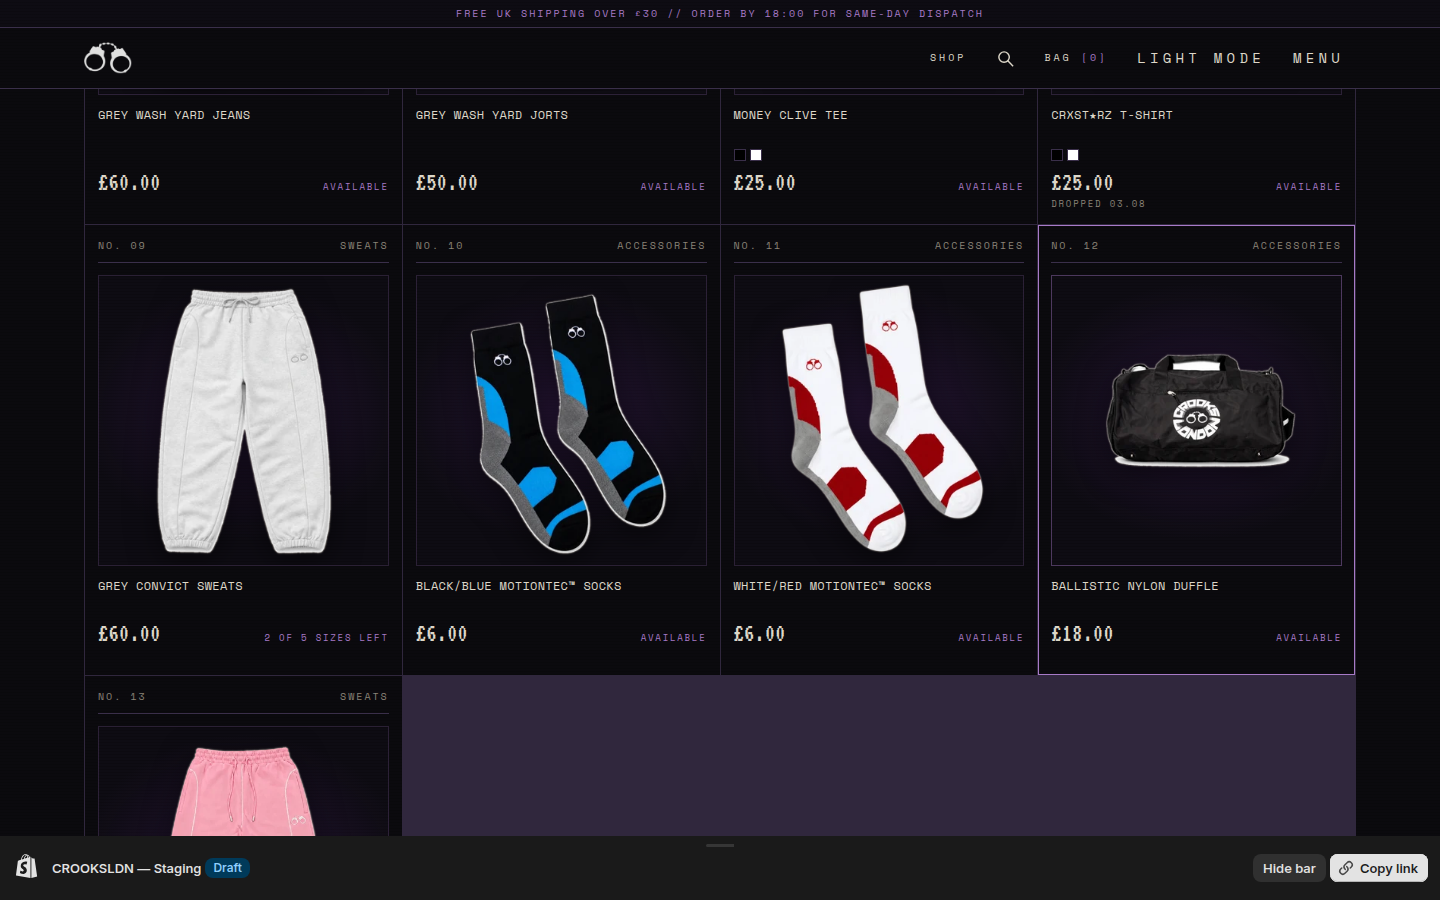
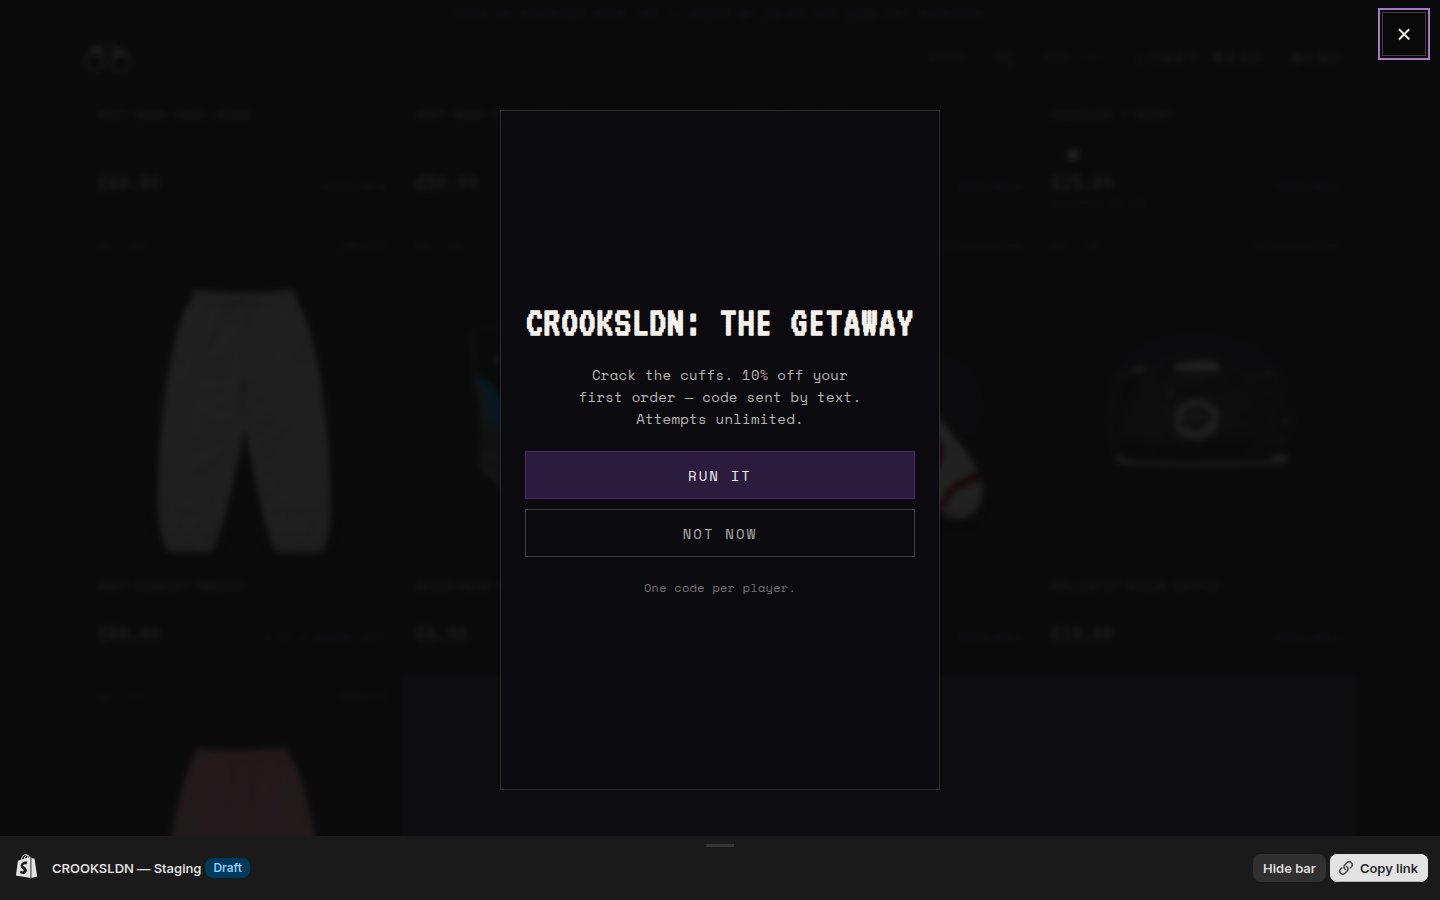
Rerun: persona 19 desktop journey complete - all 20 run-2 journeys in
- 19 bought the Cellblock set (L, £85 -> £76.50, fresh Getaway code stacking)
- Desktop delta: hover states + inline add feedback landed; PDP galleries
  thinner (PHOTO 1 OF 1), no sticky buy bar, ON MODEL still inert,
  REGISTER AS INFORMANT intake still unmounted
- COPY CODE off-site navigation confirmed on desktop with clipboard granted;
  expired code fails silently in cart
- SUMMARY.md and VERSUS.md run-2 section updated to final 15/20 ledger

Claude-Session: https://claude.ai/code/session_01UYa9fwHYTHfAEduSXfu9eY

diff --git a/audit/rerun/journeys/19-desktop-shopper.md b/audit/rerun/journeys/19-desktop-shopper.md
@@ -1,0 +1,101 @@
+# 19 — Marcus, 34, back on his laptop on the sofa, second look at CROOKSLDN
+**Device:** Desktop 1440x900, fast home broadband · **Goal:** No mission — free Wednesday evening, wants a proper look around and maybe a treat · **Mood:** Relaxed, unhurried, mouse in one hand, tea in the other
+
+### Step 1 — Opened the site and actually got a homepage this time
+**Did:** Loaded the homepage and started reading.
+**Got:** A dark terminal-style homepage, straight away — no dimmed screen, no instant ambush. Ticker up top ("FREE UK SHIPPING OVER £30 // ORDER BY 18:00 FOR SAME-DAY DISPATCH"), a status line "> 13 PRODUCTS AVAILABLE TO PURCHASE", the CROOKSLDN title, OWN THE STREETS™, a CATALOGUE button — all parked on the left. A big cookie banner along the bottom, which I declined (r19-02-popup-settled.png, r19-16-hero-staging.png).
+**Expected:** Last impressions of these brand sites are usually a popup before anything else.
+**Felt:** Better welcome than most. Two quibbles: the whole right two-thirds of the hero band is empty black — the title hugs the left like the other half of the design didn't load — and the hero is so short it's more of a letterhead than a hero. Below it, though, a new "WORLD OF CROOKS" photo strip — five numbered "FRAME 01/05" shots of actual people in actual streets. Proper. Frame 05 is chopped off at the screen edge and I had to fiddle-scroll sideways to see it.
+**Next:** continued
+
+### Step 2 — Thirty seconds in, the game took the screen
+**Did:** Was idly scrolling the grid when the whole page dimmed and a centred card appeared: "CROOKSLDN: THE GETAWAY — Crack the cuffs. 10% off your first order — code sent by text. Attempts unlimited." RUN IT / NOT NOW / "One code per player." (r19-03-popup-check.png)
+**Got:** A popup that — credit where due — tells you the prize BEFORE you play: 10%, unlimited attempts. But "code sent by text" made me groan: here comes the phone-number harvest. The card itself is a tall dark rectangle with the content floating in the middle and acres of empty space above and below, and there's a lone × way up in the top-right of the SCREEN, nowhere near the card. There's a second, smaller × on the card itself later. Pick one.
+**Expected:** Either a discount or a data grab; the copy at least was upfront.
+**Felt:** Interrupted — I was reading the grid — but 10% is 10%, and "attempts unlimited" is charming. "Code sent by text" nearly made me close it on principle. Curiosity won.
+**Next:** clicked RUN IT
+
+### Step 3 — Pressed RUN IT and was asked… to press RUN IT again
+**Did:** Clicked RUN IT. Got a SECOND intro screen: "CRACK THE CUFFS. 10% off your first order if you do. Three tumblers. Click each one at the right moment." with another RUN IT, another NOT NOW, "Code expires in 20 minutes" and "(this drop closes 15.09)" (r19-07-game-2.png). Clicked RUN IT again.
+**Got:** The actual game: three digit tumblers spinning, "CLICK TO STOP", a draining bar, "0/3 LOCKED — Click each tumbler before the bar drains" (r19-11-tumblers.png). I clicked all three in time — first go — then "CUTTING THE CODE…".
+**Expected:** One RUN IT, then the game.
+**Felt:** Why am I consenting twice? Small thing, but it's a double door. The wording finally says "Click" for us mouse people — except the tumbler buttons themselves are each labelled "TAP", so the game can't quite decide what I'm holding. "(this drop closes 15.09)" — is that a date? A time? For one blink after the cut, the screen flashed "CODE EXPIRED" before the countdown appeared, and my heart skipped — cheers for that.
+**Next:** continued
+
+### Step 4 — Won a code, on my screen, no phone number needed — then COPY CODE teleported me off the site
+**Did:** The win screen: "EVIDENCE Nº GTWY-VPZK — 10% off. One use. Expires in 19:57", a big COPY CODE button, and below it — optional — "Want it kept on file? Phone number goes in the evidence log — one message per drop, nothing else. Same promise as the register." with FILE IT and a clear "No need — I've got it" (r19-12-win-or-state.png). I clicked COPY CODE.
+**Got:** The entire website vanished. One second I'm on the dark CROOKSLDN terminal, the next I'm on a WHITE site — same handcuffs logo, different everything: plain fonts, "13 items", prices in DOLLARS — $70 crewnecks (r19-16-hero-clean.png shows where I landed: crooksldn.com/collections/all). No warning, same tab. I sat there for a solid few seconds wondering if I'd been hijacked, then hit Back and the dark site returned. My code survived in my head because I'd read it off the evidence tag, not because the button helped me.
+**Expected:** COPY CODE copies the code. That's the entire job description.
+**Felt:** Genuinely rattled, then annoyed. The win screen is the best thing they've built — prize on screen, phone number OPTIONAL, honest copy about what the number's for, a polite no-thanks link — and then the main button on it launches you off the site to some other version of the shop with American prices. If I hadn't memorised the code I'd have lost it and my 20 minutes would already be ticking.
+**Next:** went back (browser Back), carried on — warily
+
+### Step 5 — Proper homepage wander: the grid has come alive, mostly
+**Did:** Scrolled the homepage end to end. Hovered everything, the way you do on a laptop.
+**Got:** The header responds now — SHOP, BAG, LIGHT MODE, MENU all get a purple outline under the mouse. About half the product cards swap to a second photo on hover (the shorts flip from front to back view with a purple border — r19-45-swap-before.png / r19-46-swap-hover.png); the other half sit there doing nothing. Cards carry real evidence-log detail: "NO. 07", "DROPPED 03.08", "2 OF 5 SIZES LEFT", little colour swatches on the tees. All 13 cells have product in them — no missing-shelf gaps like last time — BUT the last row is one lone pink card and then a wide flat purple slab of nothing stretching across three columns (r19-19e-grid-tail.png). The "EVERY ORDER SHIPS LIKE THIS" packaging section is still lovely. Then "REGISTER AS INFORMANT — New drops go live to the list first. Get on it." — and once again NO field, NO button, nothing to click (r19-20-register.png). I moved my mouse over the whole box hunting for a hidden input. Again. Nothing. Again.
+**Expected:** Hover life (finally got some), a signup box you can sign up to (still can't).
+**Felt:** The hover work makes it feel like a real desktop site at last — the half of the cards that flip are a proper little delight. Which makes the dead half feel broken rather than minimal. And "Get on it." with no way to get on it is now beyond parody — that's two audits running I've been ordered to join a list that has no door.
+**Next:** continued
+
+### Step 6 — Catalogue: filters grown up, ON MODEL still a placebo
+**Did:** Clicked SHOP. Played with the toggles: FLAT / ON MODEL, then the DENIM chip (r19-22-catalogue.png).
+**Got:** "ALL — 13 ITEMS", four columns. ON MODEL: the button goes active, and not one of the 19 images on the page changes — I clicked it twice, stared, clicked FLAT, stared. Identical (r19-23b-onmodel.png). DENIM though: instant cut to 4 items, the count updates to "4 ITEMS", and — new — the address bar now says ?cat=DENIM, so I could actually send this view to someone (r19-24-denim.png). The page title stays "ALL" while showing only denim, which is a bit gaslighty, but the count is honest now.
+**Expected:** ON MODEL to show me humans wearing clothes; filters to filter — which they do, properly now.
+**Felt:** Filtering is snappy and shareable — real improvement. ON MODEL remains a button whose only function is turning purple. Either wire it up or take it out; a control that does nothing teaches me not to trust the others.
+**Next:** continued
+
+### Step 7 — Tried the search — quietly excellent
+**Did:** Clicked the magnifier, landed on a search page, typed "jeans".
+**Got:** "SEARCH: JEANS — 4 RESULTS", instantly, laid out like the catalogue with evidence numbering (r19-36-search-jeans.png).
+**Expected:** A clunky results page.
+**Felt:** No notes. Fast, on-brand, correct.
+**Next:** continued
+
+### Step 8 — Grey jeans: £60 and ONE photograph
+**Did:** Opened the Grey Wash Yard Jeans. Looked for more photos, clicked the big image, hovered the sizes, scrolled down the accordions (r19-37-jeans-pdp.png).
+**Got:** A proper two-column desktop layout — big photo left, buy panel right, "PRODUCT 05 / 13" breadcrumb. But the gallery literally prints "PHOTO 1 OF 1" on the page. One picture. Of jeans. For £60. Clicking the image does nothing — cursor doesn't even change. Size buttons don't react to hover. And when I scrolled down to the MEASUREMENTS table, the buy panel scrolled away and nothing followed me — no bar, no floating button; back up I went (r19-28d-panel-scroll.png).
+**Expected:** Three or four shots, a zoom, and something keeping the buy button reachable.
+**Felt:** "PHOTO 1 OF 1" reads like a confession. Last time round there were at least two photos and I moaned about that. I want to see the fabric, the front AND the back, someone wearing them. The layout respects my screen; the content doesn't.
+**Next:** went back — jeans staying on the shelf, and this time it's the photography's fault as much as payday's
+
+### Step 9 — The crewneck and the set offer — still the best salesman here
+**Did:** Opened the Charcoal Cellblock Crewneck (also "PHOTO 1 OF 1", noted). Picked size L. Ticked "Cop the full fit — add the matching Cellblock Shorts. Save £10."
+**Got:** The box unfolded with a shorts size row and a firm instruction — the big button turned into "PICK A CELLBLOCK SHORTS SIZE" until I chose. Picked L. Then: "£95 £85 for the set — FREE UK TRACKED 24 INCLUDED", button now "ADD THE FULL FIT — £85" (r19-27b-set-sized.png, r19-29-after-add.png).
+**Expected:** The bundle mechanics to be fiddly. They weren't.
+**Felt:** This is still how you sell me two things — price before and after, shipping thrown in, button says exactly what it'll do. It didn't guess my shorts size this time, just refused to move until I picked one, which is fair — shorts and jumper sizes aren't always the same. Ticked, sized, sold.
+**Next:** clicked ADD THE FULL FIT — £85
+
+### Step 10 — Pressed the £85 button — and the site answered this time
+**Did:** Clicked ADD THE FULL FIT — £85 and watched.
+**Got:** The button flipped to "ADDING…", held it about two seconds, then a small line appeared right under it — "Added — 2 in bag · View bag" — and the header ticked BAG [0] → BAG [2] (r19-29-after-add.png). No drawer sliding in, but a response, next to my cursor, in words.
+**Expected:** Last time: silence and a squint at the corner of the screen. This time I braced for the same.
+**Felt:** Relief — it talks now. "ADDING…" alone kills the did-it-work panic. [2] for two garments also makes more sense than the [1] I remember. A drawer would still be nicer than a whisper, but the whisper is where my eyes already were.
+**Next:** clicked View bag
+
+### Step 11 — The cart, a dead code, and a second heist
+**Did:** Cart page: "CELLBLOCK SET" as one line holding both pieces at L, £85, free-shipping meter fully unlocked, quantity stepper, a little "Discount" reveal (r19-30-bag.png). Opened it and typed my hard-won game code. Apply.
+**Got:** Nothing. No error, no red text — the field just emptied itself and the total sat at £85 (r19-32-code-applied.png). By now my browsing had run well past the code's 20 minutes, so fair enough that it died — but the cart didn't even have the decency to say "expired". I doubted my own typing. So: back to the homepage, let the game find me again, cracked the cuffs a second time (attempts unlimited — they meant it), got a fresh code, and this time closed the popup with the card's own little × — no teleport, lesson learned — and marched straight to the cart with it. "GTWY-QCMR −£8.50. Estimated total £76.50" (r19-32b-set-code.png).
+**Expected:** A code that says "expired" when it's expired; a discount when it isn't.
+**Felt:** The silent failure is the sort of thing that makes normal people give up — I only pushed on because I'm stubborn and it was raining. But when the fresh code landed, £8.50 came straight off the set price, stacking on the £10 the bundle already saved me. £95 of clothes for £76.50. Also spotted the footer has a "Play CROOKSLDN: The Getaway" link — though it's an external link off to the game's own website, because apparently every road here eventually leads off the site. And the "You may also like" under my cart recommended me… the crewneck and shorts already in my bag. Still. Try harder.
+**Next:** clicked Check out
+
+### Step 12 — Checkout: no drama
+**Did:** Clicked Check out with the set and the discount in the bag.
+**Got:** Clean Shopify checkout — CELLBLOCK SET, expandable to show both pieces in L, express pay (Shop Pay / PayPal / G Pay), UK delivery form (r19-33-checkout.png).
+**Expected:** This.
+**Felt:** Everything I chose is here. This is where I'd pay.
+**Next:** stopped at the payment step — treat secured
+
+### Step 13 — Nightcap wander: menu, light mode, FAQ
+**Did:** Opened MENU, flipped LIGHT MODE, read the FAQ (r19-39-menu.png, r19-40-light-mode.png, r19-41-faq.png).
+**Got:** MENU is still the classiest thing here — a right-hand panel with SHOP / TRACKING / QUESTIONS / TERMS / CONTACT, links that light up under the mouse, and that animated pixel heist map advertising the game. LIGHT MODE flips the whole site to a finished-looking paper terminal. The FAQ is a real page — DELIVERY / SIZING / RETURNS grouped, honest answers, "message us and it will probably end up on this page".
+**Expected:** Good, from last time — and it held.
+**Felt:** Someone cares about these corners. I'd just like the same person to go count the product photos.
+**Next:** closed the laptop
+
+## Outcome
+**Bought / didn't:** Bought (checkout intent) — the Cellblock set in L, £85 down to £76.50 with the game code. The set checkbox sold it; the working discount sealed it.
+**Total time:** ~35 minutes, most of them enjoyable, two of them thinking I'd been hijacked.
+**Worst moment:** Clicking COPY CODE on the game's win screen and being thrown off the site entirely — same tab, no warning — onto a white, dollar-priced version of the shop (crooksldn.com/collections/all). The best screen in the whole experience has a self-destruct button where "copy" should be. Runner-up: my code expiring and the cart rejecting it in total silence.
+**Best moment:** The win screen itself — the code ON MY SCREEN, phone number strictly optional with honest copy about what it's for, and a fresh code knocking £8.50 off an already-discounted set. Last time I refused to hand over my number and left the game empty-handed; this time desktop players are first-class citizens of the heist.
+**Would they come back?** Yes — the brand is fun, the set is good value, the site finally answers the mouse and answers the add-to-bag click. But it still treats bits of desktop as an afterthought: one-photo product pages with no zoom and no sticky buy bar, a placebo ON MODEL toggle, a signup box with no input, and a copy button that deports you.
+**One thing that would have changed the outcome:** Nothing stopped the purchase — but make COPY CODE just copy (and make an expired code SAY it's expired) and you remove both moments where I nearly walked. And for the love of denim: more than one photograph of £60 jeans.

diff --git a/audit/rerun/SUMMARY.md b/audit/rerun/SUMMARY.md
@@ -2,18 +2,19 @@
 
 2026-08-27, fresh preview of staging theme `202053779799`, GB market,
 staging verified per session. Compares against run 1 (2026-08-18/19) and the
-Unfounded baseline. Persona 19 (desktop) results pending at time of writing;
-19 journeys + a delta-check agent complete.
+Unfounded baseline. All 20 journeys + a delta-check agent complete.
 
 ## Outcomes vs run 1
 
 Committed to buy (built a basket with clear intent, stopped at the audit
-line): 02, 03, 04, 05, 07, 08, 09, 10*, 11, 13, 14, 15, 16, 18 — with 09 now
-buying the £50 crewneck she abandoned in run 1 (the size guide flipped her),
-and 14 explicitly reversing his run-1 walkout ("would finish the order this
-time"). Didn't: 01 and 06 (stock + the captcha, unchanged), and a NEW loss —
-**17 walked on principle when her freshly-won Getaway code was rejected at
-checkout.** 12 and 20 were service visits (both satisfied this run).
+line): 02, 03, 04, 05, 07, 08, 09, 10*, 11, 13, 14, 15, 16, 18, 19 — with 09
+now buying the £50 crewneck she abandoned in run 1 (the size guide flipped
+her), 14 explicitly reversing his run-1 walkout ("would finish the order this
+time"), and 19 (desktop) taking the Cellblock set in L at £76.50 — a fresh
+Getaway code's £8.50 stacking on the £10 bundle saving. Didn't: 01 and 06
+(stock + the captcha, unchanged), and a NEW loss — **17 walked on principle
+when her freshly-won Getaway code was rejected at checkout.** 12 and 20 were
+service visits (both satisfied this run).
 *10 decided (blue) without checking out.
 
 **The loss profile changed shape: run 1's theme bugs (double-add, silent
@@ -54,18 +55,39 @@ unreliable code backing and inventory.**
    EXPIRED before the countdown) reproduced by delta, 13, 16.
 3. **Tumblers unresponsive on a throttled phone** — 10 taps, nothing locked
    (14): "the only part of the site still hostile to an old Android."
-4. **COPY CODE hard-navigates to live crooksldn.com/collections/all** (15) —
-   hardcoded production URL; ejects the shopper mid-session.
+4. **COPY CODE hard-navigates to live crooksldn.com/collections/all** (15;
+   19 reproduced it twice on desktop WITH clipboard permission granted) —
+   hardcoded production URL; ejects the shopper mid-session onto the live
+   Dawn-theme site in USD. Related: the footer's "Play CROOKSLDN: The
+   Getaway" is an external same-tab link to crackthecuffs.base44.app —
+   another route off the store (19).
 5. **Winners get re-pitched** — a win sets no flag (11, 15, 17); only NOT
    NOW sets the snooze (20 confirmed the snooze holds).
 6. **"Code sent by text" is now false** and scares privacy-wary players (6
-   journeys); "expires in 20 minutes" is a bluff — code worked past 20 (9):
-   fake urgency AND factually wrong. Name exists in three variants
-   (GETAWAY / CRACK THE CUFFS / PLAY CROOKS: THE GETAWAY) + "(Copy)" dev
-   artifact in the DOM.
+   journeys; it nearly made 19 decline); "expires in 20 minutes" is
+   inconsistent — 9's code worked past 20, while 19's genuinely-expired code
+   failed SILENTLY in the cart (field clears, no message, total unchanged).
+   Name exists in three variants (GETAWAY / CRACK THE CUFFS / PLAY CROOKS:
+   THE GETAWAY) + "(Copy)" dev artifact in the DOM.
 7. Double intro, dead black void, detached close-X (fat-finger kills the
    game, 9), win screen overflows a 450px viewport hiding FILE IT (17),
    perpetual tumbler tick with no pause under reduced motion (18).
+
+## Desktop, run 2 (persona 19 — the run-1 "second-class surface" retested)
+
+Better: header hover states everywhere; 6 of 13 cards photo-swap on hover;
+add-to-bag now answers on desktop ("ADDING…" → inline "Added — 2 in bag");
+instant search results; complete light mode; category chips filter properly
+with shareable ?cat= URLs; set offer now asks for the shorts size explicitly
+instead of silently matching it. Still second fiddle: PDP galleries got
+THINNER since run 1 (crewneck and jeans literally print "PHOTO 1 OF 1"), no
+zoom anywhere, 7 of 13 cards don't react to hover, ON MODEL flips
+aria-pressed but changes zero images, no desktop sticky buy bar (the sticky
+buy panel scrolls off by ~900px on accordion-heavy PDPs), the homepage's
+last grid row is one card + a 3-column empty purple slab, WORLD OF CROOKS
+clips its 5th frame with no scroll affordance — and **REGISTER AS INFORMANT
+still has no input, button or link**: run 1's unmounted intake, still
+unmounted, now with copy ("Get on it.") pointing at nothing.
 
 ## New store-side items
 

diff --git a/audit/VERSUS.md b/audit/VERSUS.md
@@ -90,8 +90,6 @@ The same twenty personas re-ran against the NEW CROOKSLDN build (fresh
 preview of staging `202053779799`; Getaway popup observed, never fed a phone
 number). Unfounded was NOT re-audited — the baseline stands. Full run-2
 evidence: `rerun/journeys/`, `rerun/SUMMARY.md`, `rerun/features/raw-delta.md`.
-Persona 19 (desktop) was still in flight at write-up; the desktop dimension
-below keeps its run-1 verdict pending that log.
 
 ## Chips that moved
 
@@ -107,7 +105,12 @@ every garment checked), set machinery, shipping transparency, promise
 consistency, accessibility (now stronger — the popup is keyboard/SR/PRM
 playable) and post-purchase (now stronger — signed-out tracking lookup,
 1-tap RETURNS). Unfounded keeps photography & zoom, checkout branding, and
-(pending 19) desktop.
+desktop — though the desktop gap NARROWED (19): CROOKSLDN's desktop now has
+hover states on the header and 6 of 13 cards, inline add-to-bag feedback,
+instant search and a complete light mode. Unfounded still wins the dimension
+on card photo-swaps everywhere, quick-add, a sticky buy bar and real
+galleries — CROOKSLDN's crewneck and jeans PDPs literally print
+"PHOTO 1 OF 1", have no zoom, and the buy panel scrolls off-screen.
 
 **Run-2 tally by chip: CROOKSLDN 9 · Unfounded 3 · split/tie 3** (run 1 by
 the same per-row count: 8 · 5 · 2).
@@ -115,8 +118,10 @@ the same per-row count: 8 · 5 · 2).
 ## The shopper ledger, run over run
 
 Run 1: 15/20 reached checkout; losses 1, 6, 12, 14; service 20.
-Run 2: 14/19 decided-or-checkout so far (19 pending); losses 1, 6, **17**;
-service 12 and 20, both satisfied.
+Run 2: 15/20 decided-or-checkout; losses 1, 6, **17**; service 12 and 20,
+both satisfied. Same headline rate, better composition: run 1's theme-bug
+losses (12, 14) are recovered; the one new loss is the popup's till, and 19
+(desktop) closed on the £85 set at £76.50 with a working Getaway code.
 
 - **12 flipped loss → satisfied** — every search query landed; the empty
   state now answers in voice.
@@ -144,9 +149,12 @@ service 12 and 20, both satisfied.
 
 ## Run-2 verdict
 
-Run 1's sentence — right machines, several broken — is spent. The theme-side
-machines are repaired and persona-verified; what costs sales now is (a) the
-Getaway's unreliable code backing and its seven-item punch-list
-(`rerun/SUMMARY.md`), (b) stock depth, and (c) the photography gap that
-Unfounded still wins. Fix the popup's mint, wire the real photos, and the
-scoreboard reads 11–2.
+Run 1's sentence — right machines, several broken — is mostly spent. The
+theme-side machines are repaired and persona-verified; of run 1's three
+broken capture machines, only the game was truly rebuilt — the notify form
+still feeds a captcha (6) and REGISTER AS INFORMANT is still an intake with
+no input (19). What costs sales now is (a) the Getaway's unreliable code
+backing and its punch-list (`rerun/SUMMARY.md`), (b) stock depth, and
+(c) the photography gap that Unfounded still wins. Fix the popup's mint,
+mount the two capture forms, wire the real photos, and the scoreboard reads
+11–2.
